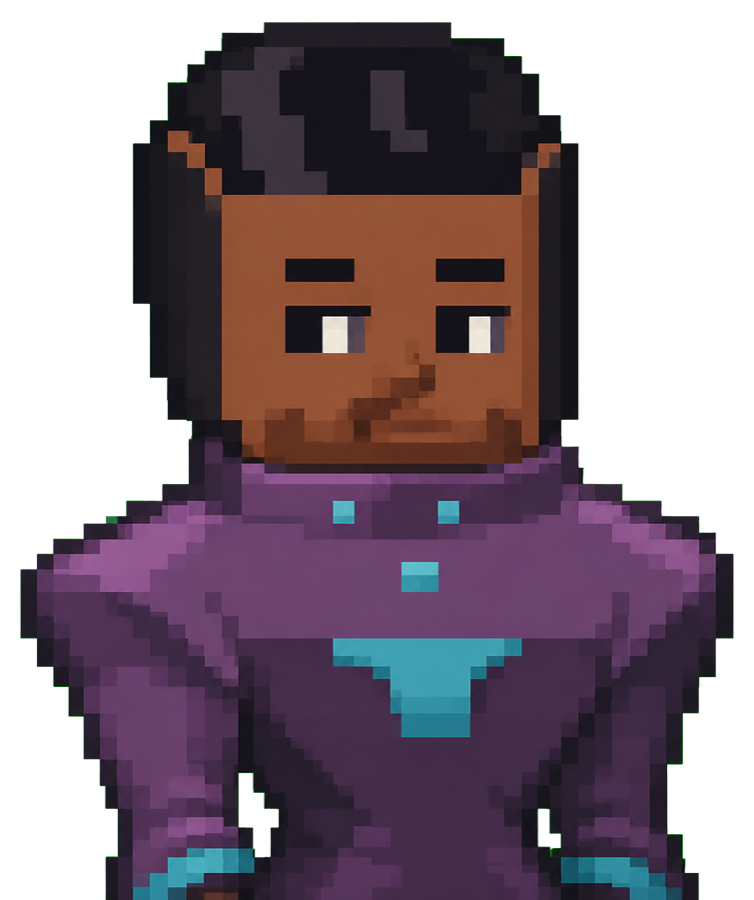
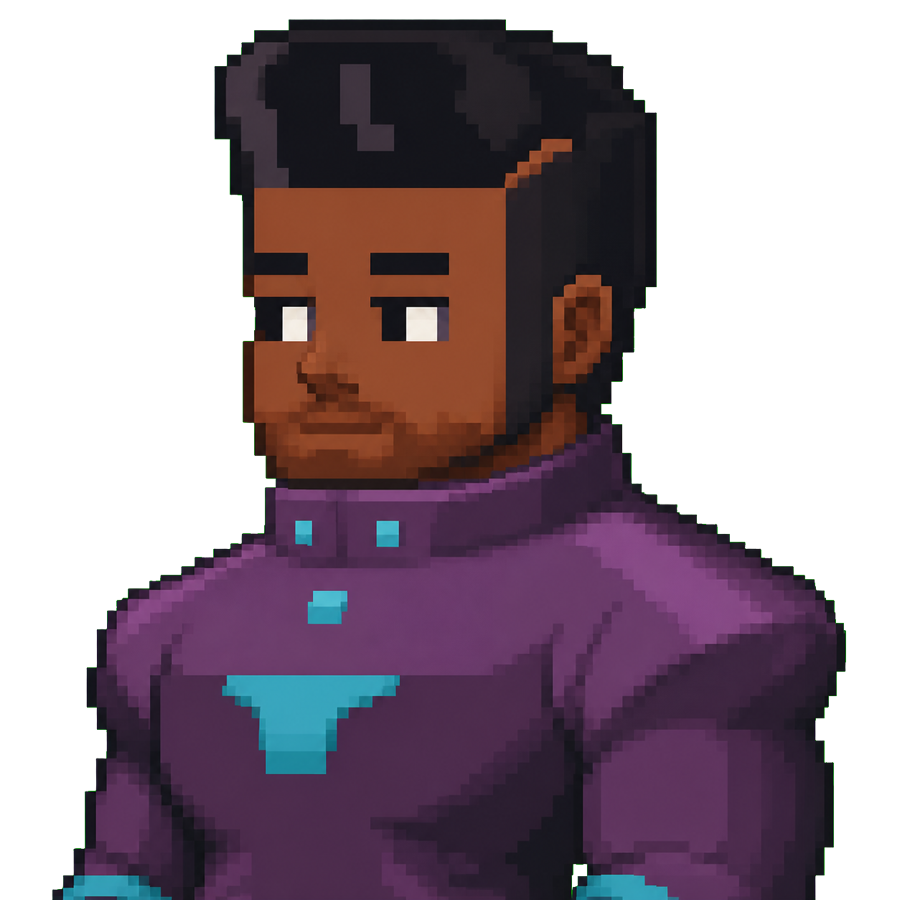
feat: complete detailed dialogue portrait cast

diff --git a/src/ui/QuestOfferDialogue.tsx b/src/ui/QuestOfferDialogue.tsx
@@ -1,21 +1,54 @@
 import { Image, Pressable, StyleSheet, Text, View } from 'react-native';
 
 import type { ViewportSize } from '../render/camera';
+import type { CharacterId } from '../render/atlas';
 import type { UiScale } from '../render/responsive-layout';
 import { uiMetrics } from './ui-metrics';
 
-const portraits = {
-  protagonist: require('../../assets/source/dialogue-portraits/protagonist.png') as number,
+const portraits: Record<CharacterId, number> = {
+  'devon-price': require('../../assets/source/dialogue-portraits/devon-price.png') as number,
+  'elise-moreau': require('../../assets/source/dialogue-portraits/elise-moreau.png') as number,
+  'generic-resident': require('../../assets/source/dialogue-portraits/generic-resident.png') as number,
   linda: require('../../assets/source/dialogue-portraits/linda.png') as number,
   'linda-boyfriend': require('../../assets/source/dialogue-portraits/linda-boyfriend.png') as number,
-} as const;
+  'mina-park': require('../../assets/source/dialogue-portraits/mina-park.png') as number,
+  'priya-nair': require('../../assets/source/dialogue-portraits/priya-nair.png') as number,
+  protagonist: require('../../assets/source/dialogue-portraits/protagonist.png') as number,
+  'rafael-cruz': require('../../assets/source/dialogue-portraits/rafael-cruz.png') as number,
+  'resident-01': require('../../assets/source/dialogue-portraits/resident-01.png') as number,
+  'resident-02': require('../../assets/source/dialogue-portraits/resident-02.png') as number,
+  'resident-03': require('../../assets/source/dialogue-portraits/resident-03.png') as number,
+  'resident-04': require('../../assets/source/dialogue-portraits/resident-04.png') as number,
+  'resident-05': require('../../assets/source/dialogue-portraits/resident-05.png') as number,
+  'resident-06': require('../../assets/source/dialogue-portraits/resident-06.png') as number,
+  'resident-07': require('../../assets/source/dialogue-portraits/resident-07.png') as number,
+  'resident-08': require('../../assets/source/dialogue-portraits/resident-08.png') as number,
+  'resident-09': require('../../assets/source/dialogue-portraits/resident-09.png') as number,
+  'resident-10': require('../../assets/source/dialogue-portraits/resident-10.png') as number,
+  'resident-11': require('../../assets/source/dialogue-portraits/resident-11.png') as number,
+  'resident-12': require('../../assets/source/dialogue-portraits/resident-12.png') as number,
+  'resident-13': require('../../assets/source/dialogue-portraits/resident-13.png') as number,
+  'resident-14': require('../../assets/source/dialogue-portraits/resident-14.png') as number,
+  'resident-15': require('../../assets/source/dialogue-portraits/resident-15.png') as number,
+  'resident-16': require('../../assets/source/dialogue-portraits/resident-16.png') as number,
+  'resident-17': require('../../assets/source/dialogue-portraits/resident-17.png') as number,
+  'resident-18': require('../../assets/source/dialogue-portraits/resident-18.png') as number,
+  'resident-19': require('../../assets/source/dialogue-portraits/resident-19.png') as number,
+  'resident-20': require('../../assets/source/dialogue-portraits/resident-20.png') as number,
+  'resident-21': require('../../assets/source/dialogue-portraits/resident-21.png') as number,
+  'resident-22': require('../../assets/source/dialogue-portraits/resident-22.png') as number,
+  'resident-23': require('../../assets/source/dialogue-portraits/resident-23.png') as number,
+  'resident-24': require('../../assets/source/dialogue-portraits/resident-24.png') as number,
+  'sora-tan': require('../../assets/source/dialogue-portraits/sora-tan.png') as number,
+  'tomas-reed': require('../../assets/source/dialogue-portraits/tomas-reed.png') as number,
+};
 
 type QuestOfferDialogueProps = Readonly<{
   accent: string;
   onAccept: () => void;
   onDecline: () => void;
   playerName: string;
-  speakerId?: 'linda' | 'linda-boyfriend';
+  speakerId?: Exclude<CharacterId, 'protagonist'>;
   speakerName?: string;
   speakerText?: string;
   surface: ViewportSize;
